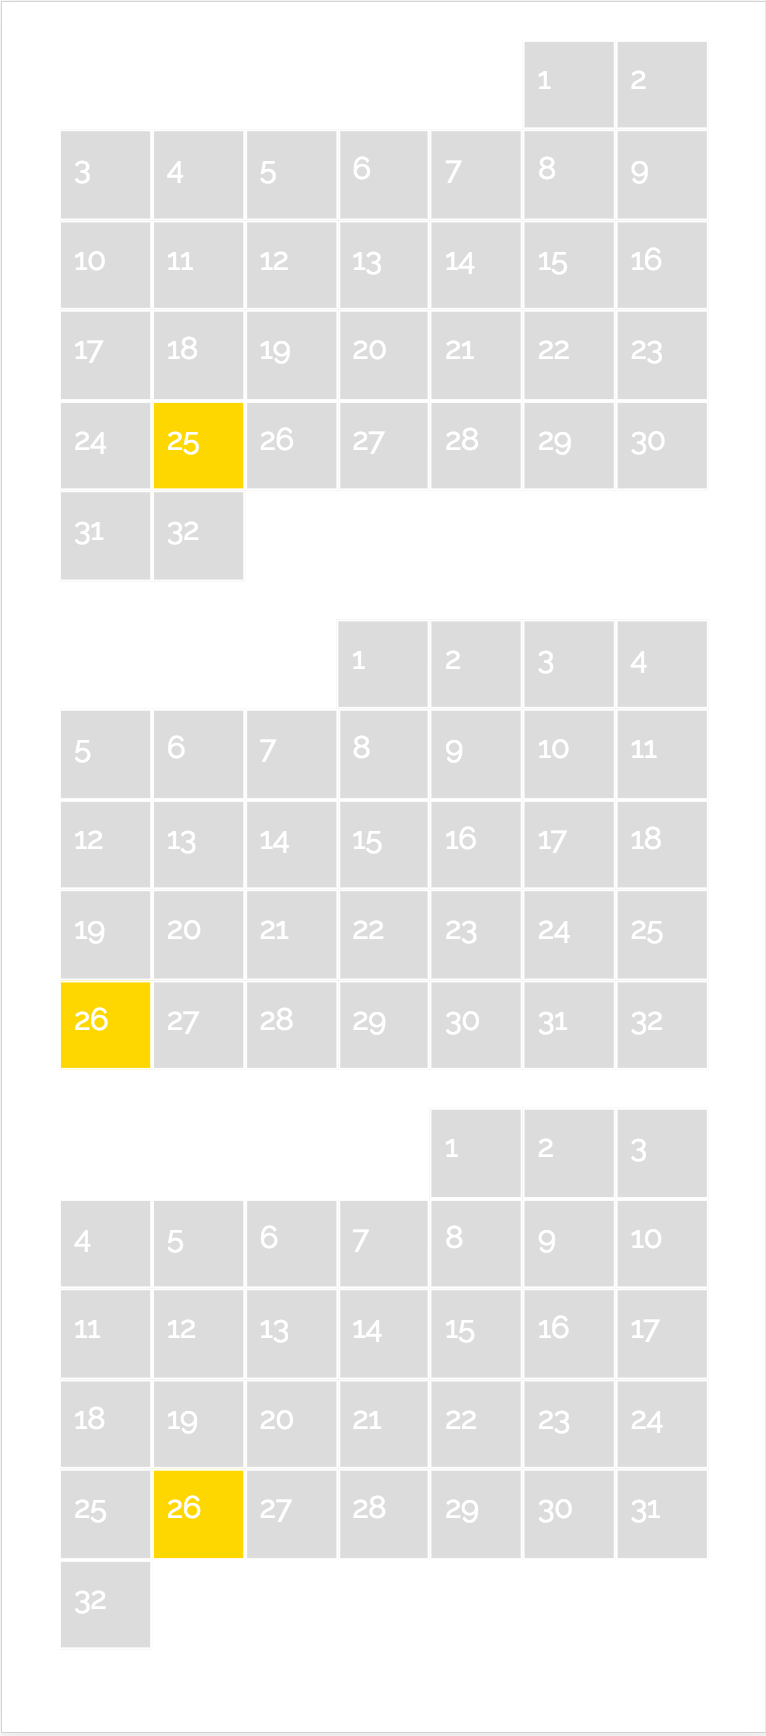
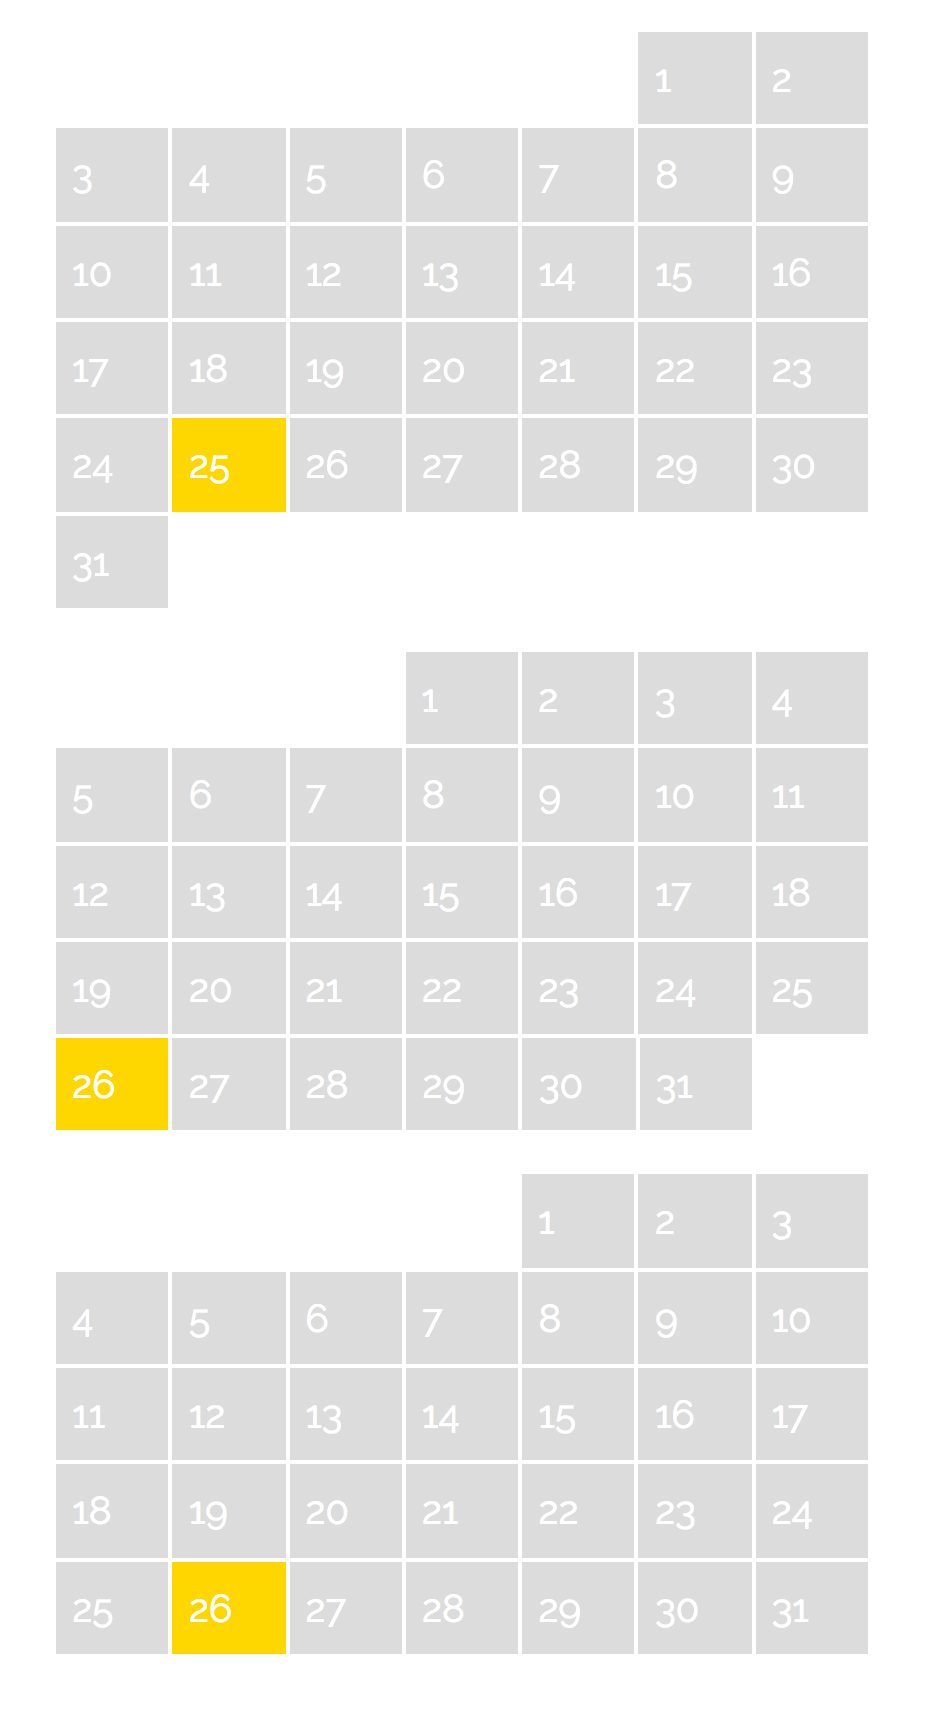
maybe 32 days in a month is a bad idea

Changed region(s): [[0.0601, 0.3393, 0.9308, 0.9872], [0.0601, 0.0, 0.9308, 0.3702], [0.9909, 0.0, 1.0, 1.0]]

diff --git a/js/calendar.ts b/js/calendar.ts
@@ -15,11 +15,12 @@ document.addEventListener("DOMContentLoaded", event => {
         let day = 1;
         let html = `<year number="${y}"><month number="${m}"><week number="${week}">`;
 
+        time.setDate(day);
+
         do {
-            time.setDate(day);
             if (time.getDay() % 7 === 0) html += `</week><week number="${++week}">`;
             html += `<day number="${day}"></day>`;
-            day++;
+            time.setDate(++day);
         } while (month === time.getMonth());
 
         html += '</week></month>'
@@ -29,7 +30,7 @@ document.addEventListener("DOMContentLoaded", event => {
     }
 
     let days = document.querySelectorAll('day');
-    for(let ix = 0; ix < days.length; ix++) {
+    for (let ix = 0; ix < days.length; ix++) {
         days[ix].addEventListener('click', dayClicked);
     }
 });
@@ -42,6 +43,6 @@ function dayClicked() {
         week: el.parentElement.getAttribute('number'),
         day: el.getAttribute('number')
     };
-    var event = new CustomEvent('calendarClicked', {'detail': data});
+    var event = new CustomEvent('calendarClicked', { 'detail': data });
     document.dispatchEvent(event);
 }

diff --git a/js/calendar.js b/js/calendar.js
@@ -12,12 +12,12 @@ document.addEventListener("DOMContentLoaded", function (event) {
         var week = 1;
         var day = 1;
         var html = "<year number=\"" + y + "\"><month number=\"" + m + "\"><week number=\"" + week + "\">";
+        time.setDate(day);
         do {
-            time.setDate(day);
             if (time.getDay() % 7 === 0)
                 html += "</week><week number=\"" + ++week + "\">";
             html += "<day number=\"" + day + "\"></day>";
-            day++;
+            time.setDate(++day);
         } while (month === time.getMonth());
         html += '</week></month>';
         calendarEl.innerHTML = html;

diff --git a/css/calendar.css b/css/calendar.css
@@ -1,6 +1,7 @@
 calendar {
     display: block;
     margin-top: 20px;
+    max-width: 600px;
 }
 
 week {
@@ -16,9 +17,7 @@ day {
     box-sizing: border-box;
     background-color: gainsboro;
     border: 1px solid white;
-    padding-top: 2%;
-    padding-left: 2%;
-    padding-bottom: 4%;
+    padding: 2%;
     color: white;
     cursor: pointer;
     font-size: 4vw;
